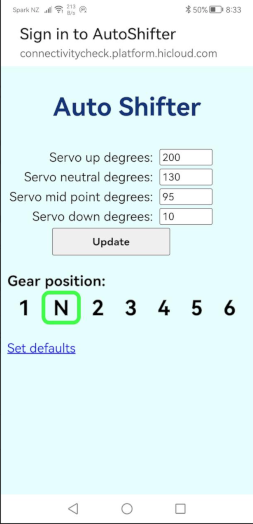
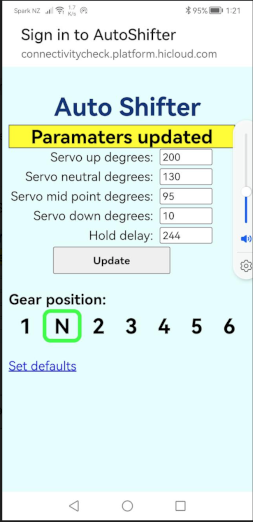
Updated gear shifting and readme

diff --git a/data/html/index.html b/data/html/index.html
@@ -32,7 +32,7 @@
         </tr>
         <tr>
           <td>
-            <label for="">Servo neutral degrees:&nbsp</label>
+            <label for="servoNeutralDegrees">Servo neutral degrees:&nbsp</label>
           </td>
           <td>
             <input type="number" name="servoNeutralDegrees" id="servoNeutralDegrees" value="%valueServoNeutralDegrees%" min="0" max="360" style="width:60px;">
@@ -40,7 +40,7 @@
         </tr>
         <tr>
           <td>
-            <label for="">Servo mid point degrees:&nbsp</label>
+            <label for="servoMidPointDegrees">Servo mid point degrees:&nbsp</label>
           </td>
           <td>
             <input type="number" name="servoMidPointDegrees" id="servoMidPointDegrees" value="%valueServoMidPointDegrees%" min="0" max="360" style="width:60px;">
@@ -48,10 +48,18 @@
         </tr>
         <tr>
           <td>
-            <label for="">Servo down degrees:&nbsp</label>
+            <label for="servoDownDegrees">Servo down degrees:&nbsp</label>
           </td>
           <td>
             <input type="number" name="servoDownDegrees" id="servoDownDegrees" value="%valueServoDownDegrees%" min="0" max="360" style="width:60px;">
+          </td>
+        </tr>
+        <tr>
+          <td>
+            <label for="holdDelay">Hold delay:&nbsp</label>
+          </td>
+          <td>
+            <input type="number" name="holdDelay" id="holdDelay" value="%valueHoldDelay%" min="0" max="5000" style="width:60px;">
           </td>
         </tr>
         <tr>

diff --git a/src/main.cpp b/src/main.cpp
@@ -16,6 +16,8 @@
 #define PIN_BUTTON_DOWN 13
 #define PIN_SHIFTER_SERVO 14
 #define BUTTON_DEBOUNCE_MS 50
+// Set PIN_NEUTRAL_LED to 0 if no LED
+#define PIN_NEUTRAL_LED 15
 
 #define NVM_NAME_SPACE "AUTOSHIFTER"
 #define WIFI_SSID "AutoShifter"
@@ -54,13 +56,16 @@ struct shifterState_t {
   const uint8_t defaultNeutralDegrees = 130;
   const uint8_t defaultMidPointDegrees = 95;
   const uint8_t defaultDownDegrees = 10;
+  const uint16_t defaultHoldDelay = 200;
+
   uint8_t upDegrees;
   uint8_t neutralDegrees;
   uint8_t midPointDegrees;
   uint8_t downDegrees;
+  uint16_t holdDelay;
   uint8_t currentGearPositonId = 2; // Gear positon #2 = neutral
 };
-shifterState_t shifterState;
+shifterState_t volatile shifterState;
 
 
 enum pongType {STARTUP=1,USER=2,KEEPALIVE=3};
@@ -72,6 +77,9 @@ String templateProcessor(const String& paramName){
   }
   if(paramName == "valueServoNeutralDegrees"){
     return String(shifterState.neutralDegrees);
+  }
+  if(paramName == "valueHoldDelay"){
+    return String(shifterState.holdDelay);
   }
   if(paramName == "wsGatewayAddr"){
     // normally ws://192.168.4.1/ws
@@ -100,18 +108,21 @@ String templateProcessor(const String& paramName){
 
 void processFormParamater( const String& fieldName, const String& fieldValue ){
   Serial.printf("field: %s = %s\n",fieldName,fieldValue);
-  u_int8_t intFieldValue = (u_int8_t) fieldValue.toInt();
+  uint16_t intFieldValue = (uint16_t) fieldValue.toInt();
   if( fieldName == "servoUpDegrees" ){
-    shifterState.upDegrees = intFieldValue;
+    shifterState.upDegrees = (uint8_t) intFieldValue;
   }
   if( fieldName == "servoNeutralDegrees" ){
-    shifterState.neutralDegrees = intFieldValue;
+    shifterState.neutralDegrees = (uint8_t) intFieldValue;
   }
   if( fieldName == "servoMidPointDegrees" ){
-    shifterState.midPointDegrees = intFieldValue;
+    shifterState.midPointDegrees = (uint8_t) intFieldValue;
   }
   if( fieldName == "servoDownDegrees" ){
-    shifterState.downDegrees = intFieldValue;
+    shifterState.downDegrees = (uint8_t) intFieldValue;
+  }
+  if( fieldName == "holdDelay" ){
+    shifterState.holdDelay = intFieldValue;
   }
 }
 
@@ -120,6 +131,7 @@ void nvsWrite(){
   preferences.putUChar("neutralDegrees", shifterState.neutralDegrees);
   preferences.putUChar("midPointDegrees", shifterState.midPointDegrees);
   preferences.putUChar("downDegrees", shifterState.downDegrees);
+  preferences.putUChar("holdDelay", shifterState.holdDelay);
 }
 
 void nvsRead(){
@@ -129,6 +141,7 @@ void nvsRead(){
     shifterState.midPointDegrees = shifterState.defaultMidPointDegrees;
     shifterState.neutralDegrees = shifterState.defaultNeutralDegrees;
     shifterState.downDegrees = shifterState.defaultDownDegrees;
+    shifterState.holdDelay = shifterState.defaultHoldDelay;
     shifterState.hasFromDefaults = true;
     nvsWrite();
     return;
@@ -137,42 +150,76 @@ void nvsRead(){
   shifterState.neutralDegrees = preferences.getUChar("neutralDegrees");
   shifterState.midPointDegrees = preferences.getUChar("midPointDegrees");
   shifterState.downDegrees = preferences.getUChar("downDegrees");
+  shifterState.holdDelay = preferences.getUChar("holdDelay");
 }
 
-void wsSendGearUpdate(){
+String getGearPosText( uint8_t gearPosId ){
+  String gearPosText = String("1N234567").substring(gearPosId-1,gearPosId);
+  return gearPosText;
+}
+
+void wsSendGearUpdate(uint16_t pressedTime){
   char buffer[1000];
-  String gearPos = String("1N234567").substring(shifterState.currentGearPositonId-1,shifterState.currentGearPositonId);
+  uint8_t gearPosId = shifterState.currentGearPositonId;
+  String gearPosText = getGearPosText(gearPosId);
   json_tx.clear();
   json_tx["messageType"] = "gearPosition";
-  json_tx["payload"]["currentGearPosition"] = gearPos;
+  json_tx["payload"]["currentGearPosition"] = gearPosText;
+  json_tx["payload"]["gearPosId"] = gearPosId;
+  json_tx["payload"]["pressedTime"] = pressedTime;
   size_t lenJson = serializeJson(json_tx, buffer);
   ws.textAll(buffer,lenJson);
   Serial.printf("WS TX-> JSON %s\n",buffer);
+  if( PIN_NEUTRAL_LED>0 ) digitalWrite( PIN_NEUTRAL_LED, gearPosText=="N" );
 }
 
 void checkGearChange(){
   uint16_t upPressed = up_button.pressTime();
   uint16_t downPressed = down_button.pressTime();
-  if( upPressed>0 ){
-    // Serial.printf("Change counter:%d UP Presstime:%d\n", up_button.changeCount, upPressed );
-    myservo.write(shifterState.upDegrees);
-    delay(250);
-    myservo.write(shifterState.midPointDegrees);
-    if( shifterState.currentGearPositonId <= 6 ){
-      shifterState.currentGearPositonId++;
-    }
-    wsSendGearUpdate();
-  }
   if( downPressed>0 ){
     // Serial.printf("Change counter:%d Down Presstime:%d\n", down_button.changeCount, downPressed );
     myservo.write(shifterState.downDegrees);
-    delay(250);
+    delay(shifterState.holdDelay);
     myservo.write(shifterState.midPointDegrees);
     if( shifterState.currentGearPositonId > 1 ){
       shifterState.currentGearPositonId--;
-      wsSendGearUpdate();
     }
-    wsSendGearUpdate();
+    if( shifterState.currentGearPositonId == 2){
+      Serial.println("Shift from 2nd to 1st skip neutral");
+      shifterState.currentGearPositonId--;
+    }
+    Serial.printf("Change down to %s button press time:%d servo pos:%d\n",getGearPosText(shifterState.currentGearPositonId),downPressed,shifterState.downDegrees);
+    wsSendGearUpdate(downPressed);
+    return;
+  }
+
+  // Check to see if we are in first and need to shift to neutral
+  if( upPressed>1500 && shifterState.currentGearPositonId==1 ){
+    myservo.write(shifterState.neutralDegrees);
+    delay(shifterState.holdDelay);
+    myservo.write(shifterState.midPointDegrees);
+    shifterState.currentGearPositonId++;
+    Serial.printf("Change from 1st to neutral, do half shift button press time:%d servo pos:%d\n",upPressed,shifterState.neutralDegrees);
+    wsSendGearUpdate(upPressed);
+    return;
+  }
+
+  if( upPressed>0 ){
+    // Serial.printf("Change counter:%d UP Presstime:%d\n", up_button.changeCount, upPressed );
+    myservo.write(shifterState.upDegrees);
+    delay(shifterState.holdDelay);
+    myservo.write(shifterState.midPointDegrees);
+    if( shifterState.currentGearPositonId <= 6 ){
+      if( shifterState.currentGearPositonId == 1 ){
+        // We shift pass neutral
+        shifterState.currentGearPositonId++;
+        Serial.println("Change up, skip neutral");
+      }
+      shifterState.currentGearPositonId++;
+    }
+    Serial.printf("Change up to %s button press time:%d servo pos:%d\n",getGearPosText(shifterState.currentGearPositonId),upPressed,shifterState.upDegrees);
+    wsSendGearUpdate(upPressed);
+    return;
   }
 }
 
@@ -221,6 +268,8 @@ void setup(){
   preferences.begin( NVM_NAME_SPACE, false);
   nvsRead();
 
+  if( PIN_NEUTRAL_LED > 0 ) pinMode(PIN_NEUTRAL_LED,OUTPUT);
+
   // Start file system  
   if(!LittleFS.begin()){
     Serial.println("An Error has occurred while mounting LittleFS");
@@ -238,6 +287,8 @@ void setup(){
   up_button.begin();
   down_button.begin();
   myservo.write(shifterState.midPointDegrees);
+  shifterState.currentGearPositonId = 2; // Assume neutral on start
+  wsSendGearUpdate(0);
   
   WiFi.softAP(wifi_ssid,wifi_password);
   ip_address = WiFi.softAPIP();
@@ -263,7 +314,7 @@ void wsOnEvent(AsyncWebSocket *server, AsyncWebSocketClient *client, AwsEventTyp
   switch (type) {
     case WS_EVT_CONNECT:
       Serial.printf("WebSocket client #%u connected from %s\n", client->id(), client->remoteIP().toString().c_str());
-      wsSendGearUpdate();
+      wsSendGearUpdate(0);
       break;
     case WS_EVT_DISCONNECT:
       Serial.printf("WebSocket client #%u disconnected\n", client->id());

diff --git a/README.md b/README.md
@@ -64,7 +64,8 @@ Select PlatformIO icon in the left pain then click Project Tasks / Platform / Up
 
 ![Screenshot upload file system](docs/images/upload_file_system.png)
 
-Change the pin definitions to match your hardware.
+**Change the pin definitions to match your hardware.**
+
 ```C++
 // PIN Defintions
 #define PIN_BUTTON_UP 12
@@ -73,6 +74,12 @@ Change the pin definitions to match your hardware.
 #define BUTTON_DEBOUNCE_MS 50
 ```
 
+**Change internal web server SSID / Password.**
+
+```C++
+#define WIFI_SSID "AutoShifter"
+#define WIFI_PASSWORD "123456789"
+```
 **Compile and upload the firmware to the ESP32.**
 
 Note: Most ESP32 development boards include a reset circuit, some boards you will need to manually.
@@ -93,11 +100,10 @@ Note debug messages are outputed to the serial port @ 115,200 baud.
 
 ![SmartPhone screenshot of shifter](docs/images/shifter_screenshot_19-12-2023.png)
 
-## Change internal web server SSID / Password 
-```C++
-#define WIFI_SSID "AutoShifter"
-#define WIFI_PASSWORD "123456789"
-```
+**Bread board prototype used for testing**
+
+![Photo of prototype on bread board](docs/images/shifter_breadboard.png)
+
 
 ## License
 
